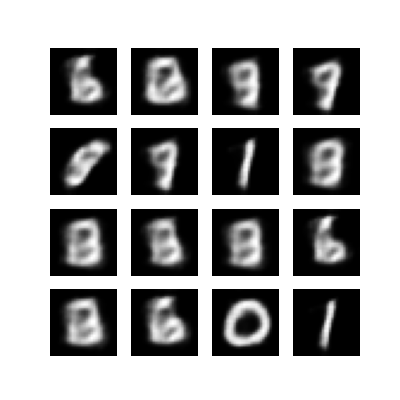
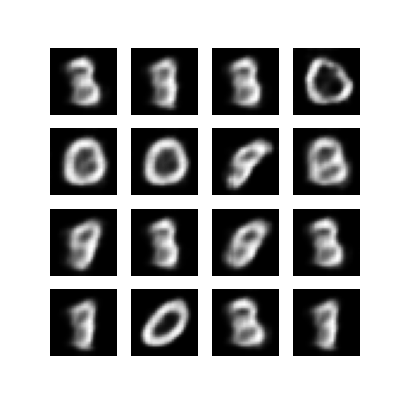
Added new images.

diff --git a/main.py b/main.py
@@ -6,12 +6,12 @@ import variational_autoencoder as vae
 
 if __name__ == "__main__":
     # MNIST digit dataset
-    # train_ds, test_ds = get_data.digit_mnist()
-    # sample = next(iter(train_ds))[0]
+    train_ds, test_ds = get_data.digit_mnist()
+    sample = next(iter(train_ds))[0]
 
     # MNIST fashion dataset
-    train_ds, test_ds = get_data.fashion_mnist(for_vae=True)
-    sample = next(iter(train_ds))[0]
+    # train_ds, test_ds = get_data.fashion_mnist(for_vae=True)
+    # sample = next(iter(train_ds))[0]
 
     latent_dim = 2  # set the dimensionality of the latent space to a plane for visualization later
     autoencoder = vae.CVAE(latent_dim=latent_dim, sample=sample)
@@ -38,4 +38,7 @@ if __name__ == "__main__":
             mean(autoencoder.compute_loss(test_x))  # update_state method of tf.keras.metrics.Mean()
         elbo = -mean.result()  # Computes the weighted average of the elements added via update_state method
         print(f"Epoch: {epoch}, Test set ELBO: {elbo}, time elapse for current epoch: {end_time - start_time}")
+
         plots.generate_and_save_cvae_images(autoencoder, epoch, test_sample)
+        plots.cvae_gif()
+        plots.plot_cvae_latent_space(model=autoencoder, n=10, image_size=sample.shape[0])

diff --git a/plots.py b/plots.py
@@ -79,3 +79,5 @@ def plot_cvae_latent_space(model: vae.CVAE, n: int, image_size: int):
     plt.imshow(image, cmap="Greys_r")
     plt.axis("Off")
     plt.show()
+    fp = os.path.join(os.getcwd(), "images", "latent_space_grid.png")
+    plt.savefig(fp)
